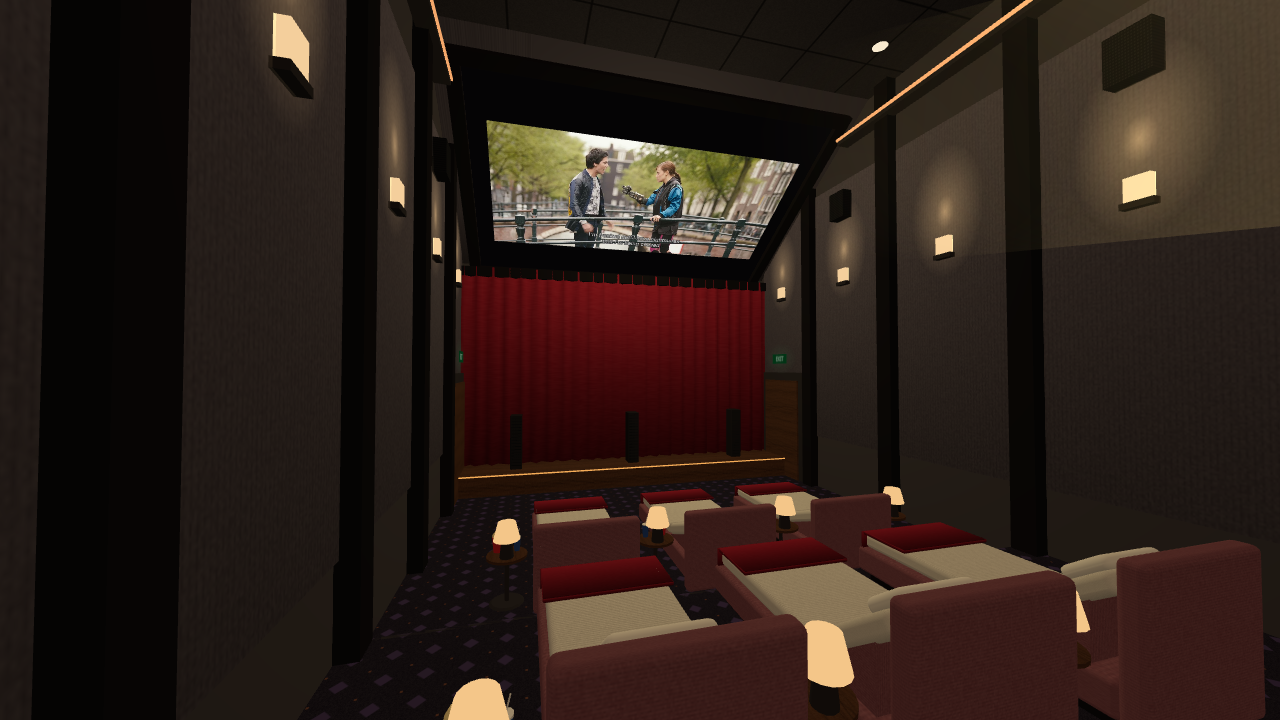
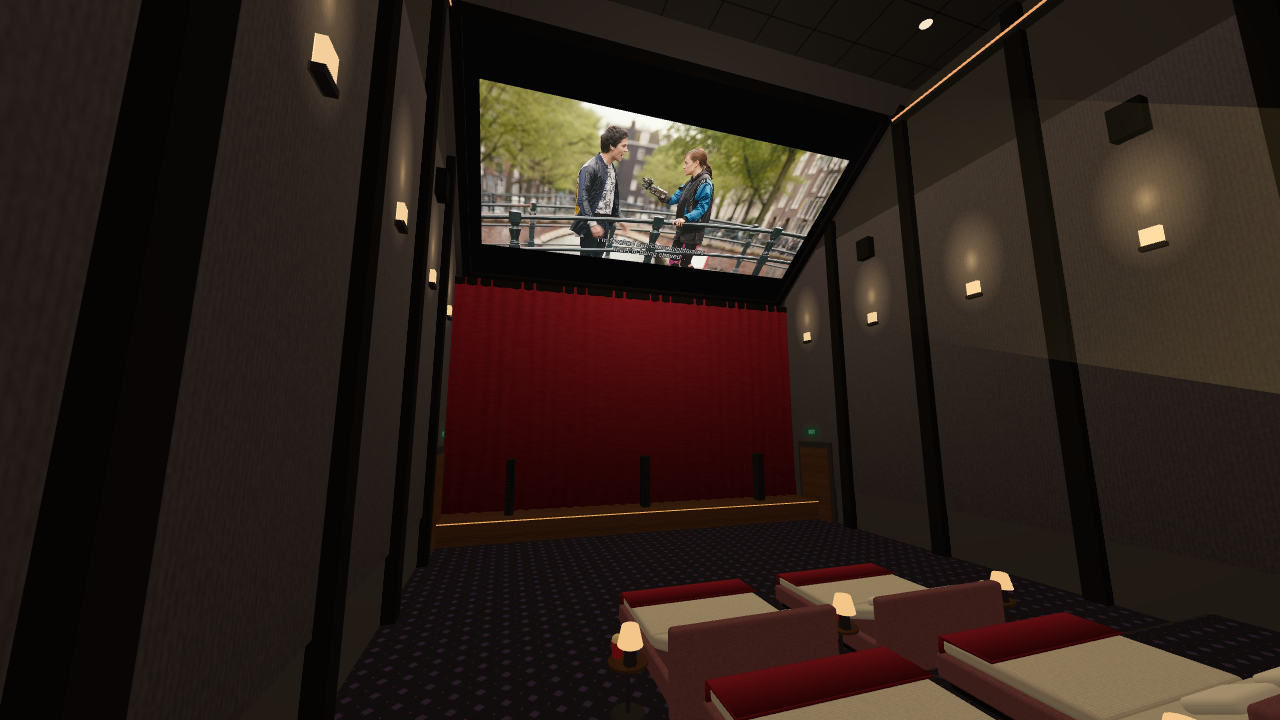
v0.5.1: bed cinema with straight double beds
The reclined recenter keeps the head level instead of following the
picture's up, which rolled the room for side places. The bed cinema now has
two straight double beds per row (8 places) under a bigger, farther screen;
places off the axis are recentered along their bed (their gaze), so the
body lines up with it and the head turns on the pillow to watch.

diff --git a/src/environments/beds/beds.js b/src/environments/beds/beds.js
@@ -1,15 +1,18 @@
-// Bed cinema: a smaller sister of the movie theatre, made for watching lying
-// down (in bed). Six beds in two rows instead of seats; the screen hangs high
+// Bed cinema: a sister of the movie theatre, made for watching lying down (in
+// bed). Two rows of two double beds instead of seats; the screen hangs high
 // above the front of the room, leaned back towards the beds, in a sloping
 // soffit. The theatre's style: acoustic bays with sconces and surround
 // speakers, velvet curtains, a stage with the front speakers, exit doors, a
-// projection booth and its beam. Side tables between the beds, with a lamp,
+// projection booth and its beam. Side tables beside the beds, with a lamp,
 // popcorn and a drink.
 //
 // The room matches the body: the front row lies almost flat and looks high up
-// at the screen, the back row sits up more and looks lower. Every bed carries
-// its own head position (where the eyes go); the layout's is the front middle
-// bed's. Coordinates: the screen faces +z and down, the beds' feet point to -z.
+// at the screen, the back row sits up more and looks lower. The beds point
+// straight at the screen wall, so the screen is big, high and far away: then
+// even the outer places see it only a little off to the side (a closer screen
+// would be far off their axis). Every place carries its own head position
+// (where the eyes go); the layout's is the front row's left inner place.
+// Coordinates: the screen faces +z and down, the beds' feet point to -z.
 
 import * as THREE from 'three';
 import { StaticBuilder } from '../kit/builder.js';
@@ -22,37 +25,42 @@ import * as textures from '../kit/textures.js';
 
 const deg = THREE.MathUtils.degToRad;
 
-const ROOM = { halfWidth: 4, front: -5.6, back: 5.6, height: 8 };
-const STAGE = { top: 0.45, depth: 1.3 };
-// A bed: the mattress top is this high above its floor; its head end is a
-// backrest raised by the row's recline, hinged this far from the headboard.
-const BED = { width: 1.1, length: 2.25, top: 0.51, hinge: 0.85 };
-const BED_XS = [-1.8, 0, 1.8];
-// `z`: the headboard, `floor`: the back row is on a low platform.
+const ROOM = { halfWidth: 6.2, front: -9.3, back: 5.6, height: 12.5 };
+const STAGE = { top: 0.6, depth: 1.6 };
+// A double bed: the mattress top is this high above its floor; its head end
+// is a backrest raised by the row's recline, hinged this far from the
+// headboard. Two places on it, this far either side of its middle.
+const BED = { width: 2.1, length: 2.25, top: 0.51, hinge: 0.85 };
+const PLACES = [-0.52, 0.52];
+// Two double beds a row, either side of a table; `z`: the headboards,
+// `floor`: the back row is on a low platform.
+const BED_XS = [-1.45, 1.45];
 const ROWS = [
 	{ z: 0.35, floor: 0, recline: deg(20) },
-	{ z: 3.45, floor: 0.3, recline: deg(38) },
+	{ z: 3.45, floor: 0.3, recline: deg(30) },
 ];
 const PLATFORM_FRONT = 0.95;
-// Side tables between and beside the beds, at their heads.
-const TABLE_XS = [-2.7, -0.9, 0.9, 2.7];
+// Side tables at the heads: between the beds, and outside them.
+const TABLE_XS = [-2.95, 0, 2.95];
 
+// Bed-local points: the origin is the foot of the headboard, the feet
+// towards -z.
 /** Along a raised backrest (from the hinge up), and out of it. */
 const along = (recline) => new THREE.Vector3(0, Math.sin(recline), Math.cos(recline));
 const outOf = (recline) => new THREE.Vector3(0, Math.cos(recline), -Math.sin(recline));
-const hingeOf = (x, row) => new THREE.Vector3(x, row.floor + BED.top, row.z - BED.hinge);
+const HINGE = new THREE.Vector3(0, BED.top, -BED.hinge);
 /** The eyes of someone lying on a bed, head on the pillow. */
-const headOf = (x, row) => hingeOf(x, row).addScaledVector(along(row.recline), 0.62).addScaledVector(outOf(row.recline), 0.24);
-/** Rig floor position for a bed: under its middle (where the pointer aims). */
-const seatOf = (x, row) => new THREE.Vector3(x, row.floor, row.z - 0.08 - BED.length / 2);
+const localHead = (row) => HINGE.clone().addScaledVector(along(row.recline), 0.62).addScaledVector(outOf(row.recline), 0.24);
+/** Rig floor position for a place: under its middle (where the pointer aims). */
+const MIDDLE = new THREE.Vector3(0, 0, -0.08 - BED.length / 2);
 
-// The screen, seen from the front middle bed this high above the horizon and
-// this far away, leaned back to face it.
-const HEAD = headOf(0, ROWS[0]);
+// The screen, seen from the front row's middle this high above the horizon
+// and this far away, leaned back to face it.
 const SCREEN_ELEVATION = deg(55);
-const SCREEN_DISTANCE = 6.6;
-const SCREEN_SIZE = { maxWidth: 6.4, maxHeight: 3.6 };
-const SCREEN_CENTER = HEAD.clone().addScaledVector(new THREE.Vector3(0, Math.sin(SCREEN_ELEVATION), -Math.cos(SCREEN_ELEVATION)), SCREEN_DISTANCE);
+const SCREEN_DISTANCE = 11;
+const SCREEN_SIZE = { maxWidth: 10.7, maxHeight: 6 };
+const AXIS_HEAD = localHead(ROWS[0]).add(new THREE.Vector3(0, ROWS[0].floor, ROWS[0].z));
+const SCREEN_CENTER = AXIS_HEAD.clone().addScaledVector(new THREE.Vector3(0, Math.sin(SCREEN_ELEVATION), -Math.cos(SCREEN_ELEVATION)), SCREEN_DISTANCE);
 // The screen's plane: its up (leaning back over the beds) and its front.
 const SCREEN_UP = new THREE.Vector3(0, Math.cos(SCREEN_ELEVATION), Math.sin(SCREEN_ELEVATION));
 const SCREEN_NORMAL = new THREE.Vector3(0, -Math.sin(SCREEN_ELEVATION), Math.cos(SCREEN_ELEVATION));
@@ -65,14 +73,30 @@ const SOFFIT_FRONT_Y = onScreenPlane(SOFFIT_FROM).y;
 /** Depth (z) where the soffit is at height `y`. */
 const soffitZ = (y) => SCREEN_CENTER.z + ((y - SCREEN_CENTER.y) / SCREEN_UP.y) * SCREEN_UP.z;
 
+/**
+ * The places, two on each bed: where the eyes go, the rig's floor position,
+ * and the gaze, head straight on the pillow: along the bed, at the screen's
+ * height (the view is recentered on it; off the axis, you turn your head on
+ * the pillow towards the screen, by 8° to 17°).
+ */
+const SPOTS = ROWS.flatMap((row) => BED_XS.flatMap((bedX) => PLACES.map((dx) => {
+	const offset = new THREE.Vector3(bedX + dx, row.floor, row.z);
+	const head = localHead(row).add(offset);
+	const elevation = Math.atan2(SCREEN_CENTER.y - head.y, head.z - SCREEN_CENTER.z);
+	return { head, seat: MIDDLE.clone().add(offset), gaze: new THREE.Vector3(0, Math.sin(elevation), -Math.cos(elevation)) };
+})));
+// The front row's left inner place.
+const DEFAULT_SPOT = SPOTS[1];
+
 export const bedsLayout = {
 	screen: {
 		position: { x: SCREEN_CENTER.x, y: SCREEN_CENTER.y, z: SCREEN_CENTER.z },
 		...SCREEN_SIZE,
 		tilt: THREE.MathUtils.radToDeg(SCREEN_ELEVATION),
 	},
-	seat: (({ x, y, z }) => ({ x, y, z }))(seatOf(0, ROWS[0])),
-	head: { x: HEAD.x, y: HEAD.y, z: HEAD.z },
+	seat: (({ x, y, z }) => ({ x, y, z }))(DEFAULT_SPOT.seat),
+	head: (({ x, y, z }) => ({ x, y, z }))(DEFAULT_SPOT.head),
+	gaze: (({ x, y, z }) => ({ x, y, z }))(DEFAULT_SPOT.gaze),
 	screenLight: true,
 };
 
@@ -124,20 +148,18 @@ defineEnvironment('beds', {
 		buildBackWall(b, m);
 		const seats = new SeatSpots();
 		for (const row of ROWS) {
-			for (const x of BED_XS) {
-				bed(b, m, x, row);
-				seats.add(Object.assign(seatOf(x, row), { head: headOf(x, row) }));
-			}
-			for (const [i, x] of TABLE_XS.entries()) sideTable(b, m, [x, row.floor, row.z - 0.3], i);
+			for (const x of BED_XS) bed(new Placer(b, [x, row.floor, row.z]), m, row);
+			for (const [i, x] of TABLE_XS.entries()) sideTable(b, m, [x, row.floor, row.z - 0.3], 0, i);
 		}
+		for (const { head, seat, gaze } of SPOTS) seats.add(Object.assign(seat.clone(), { head, gaze }));
 		env.seats = seats;
 		env.group.add(b.build());
 
 		const lighting = new EnvironmentLighting(env.group, {
 			sceneEl: env.sceneEl,
-			screenLightPosition: onScreenPlane(0, 0, 1.5),
-			screenLightDistance: 16,
-			screenLightScale: 0.6,
+			screenLightPosition: onScreenPlane(0, 0, 2),
+			screenLightDistance: 24,
+			screenLightScale: 0.8,
 		});
 		lighting.addFixture(m.sconce);
 		lighting.addFixture(m.cove);
@@ -175,8 +197,8 @@ function buildShell(b, m) {
 		const length = back - 0.3 - coveFrom;
 		b.add(box(0.06, 0.05, length), m.cove, { position: [side * (halfWidth - 0.3), coveY, coveFrom + length / 2] });
 		b.add(box(0.26, 0.1, length), m.trim, { position: [side * (halfWidth - 0.17), coveY - 0.05, coveFrom + length / 2] });
-		for (const z of [-0.4, 2.1, 4.6]) {
-			b.add(new THREE.CircleGeometry(0.12, 20), m.downlight, { position: [side * 3.1, height - 0.01, z], rotation: [Math.PI / 2, 0, 0] });
+		for (const z of [-1.2, 1.7, 4.6]) {
+			b.add(new THREE.CircleGeometry(0.14, 20), m.downlight, { position: [side * 4.6, height - 0.01, z], rotation: [Math.PI / 2, 0, 0] });
 		}
 	}
 
@@ -193,9 +215,9 @@ function buildFront(b, m) {
 	const { halfWidth, front } = ROOM;
 	b.add(tiledBox(halfWidth * 2, STAGE.top, STAGE.depth, 1.5), m.wood, { position: [0, STAGE.top / 2, front + STAGE.depth / 2] });
 	b.add(box(halfWidth * 2, 0.025, 0.025), m.stageLight, { position: [0, STAGE.top - 0.02, front + STAGE.depth + 0.01] });
-	for (const x of [-2.7, 0, 2.7]) speaker(b, m, [x, STAGE.top, front + 0.75], Math.PI, { height: 1.2 });
+	for (const x of [-4.2, 0, 4.2]) speaker(b, m, [x, STAGE.top, front + 0.85], Math.PI, { height: 1.6 });
 	const height = SOFFIT_FRONT_Y - STAGE.top;
-	b.add(foldedCurtain(halfWidth * 2, height, { folds: 24, depth: 0.12 }), m.velvet, { position: [0, STAGE.top + height / 2, front + 0.25] });
+	b.add(foldedCurtain(halfWidth * 2, height, { folds: 36, depth: 0.14 }), m.velvet, { position: [0, STAGE.top + height / 2, front + 0.25] });
 	b.add(box(halfWidth * 2, 0.22, 0.3), m.dark, { position: [0, SOFFIT_FRONT_Y - 0.11, front + 0.15] });
 }
 
@@ -226,12 +248,12 @@ function buildWalls(b, m) {
 		for (let i = 0; i < bays; i++) {
 			const z = front + i * bayWidth;
 			const center = z + bayWidth / 2;
-			b.add(box(0.05, 5.5, bayWidth - 0.36), m.acoustic, { position: [wallX + inward * 0.025, 3.9, center] });
-			if (i > 0) b.add(box(0.2, height, 0.3), m.dark, { position: [wallX + inward * 0.1, height / 2, z] });
-			b.add(box(0.09, 0.28, 0.22), m.sconce, { position: [wallX + inward * 0.1, 4.65, center] });
-			b.add(box(0.12, 0.07, 0.28), m.trim, { position: [wallX + inward * 0.1, 4.48, center] });
-			b.add(new THREE.PlaneGeometry(1.2, 2.1), m.sconceGlow, { position: [wallX + inward * 0.07, 5.2, center], rotation: [0, inward * Math.PI / 2, 0] });
-			if (i % 2 === 1) b.add(box(0.24, 0.55, 0.4), m.grille, { position: [wallX + inward * 0.14, 6.1, center] });
+			b.add(box(0.06, 8.4, bayWidth - 0.4), m.acoustic, { position: [wallX + inward * 0.03, 5.3, center] });
+			if (i > 0) b.add(box(0.22, height, 0.34), m.dark, { position: [wallX + inward * 0.11, height / 2, z] });
+			b.add(box(0.1, 0.32, 0.26), m.sconce, { position: [wallX + inward * 0.12, 6.4, center] });
+			b.add(box(0.14, 0.08, 0.32), m.trim, { position: [wallX + inward * 0.12, 6.22, center] });
+			b.add(new THREE.PlaneGeometry(1.5, 2.6), m.sconceGlow, { position: [wallX + inward * 0.08, 7.1, center], rotation: [0, inward * Math.PI / 2, 0] });
+			if (i % 2 === 1) b.add(box(0.26, 0.62, 0.46), m.grille, { position: [wallX + inward * 0.16, 8.6, center] });
 		}
 
 		// Exit door near the front, with its lit sign.
@@ -267,40 +289,40 @@ function wedge(width, length, angle) {
 }
 
 /**
- * A cinema bed, its head at the headboard (`row.z`), feet towards the screen:
+ * A double cinema bed, placed by `p` at its headboard, feet towards -z:
  * upholstered base and headboard, a mattress whose head end is raised by the
- * row's recline, a pillow and a velvet throw folded at the foot.
+ * row's recline, two pillows and a velvet throw folded at the foot.
+ * @param {Placer} p
  */
-function bed(b, m, x, row) {
-	const { floor, recline } = row;
-	const foot = row.z - 0.08 - BED.length;
-	const middle = row.z - 0.08 - BED.length / 2;
-	const add = (geometry, material, [px, py, pz], rotation = [0, 0, 0]) => b.add(geometry, material, { position: [px, py, pz], rotation });
-	add(box(BED.width - 0.12, 0.1, BED.length - 0.16), m.dark, [x, floor + 0.05, middle]);
-	add(box(BED.width - 0.3, 0.02, 0.02), m.stepLight, [x, floor + 0.05, foot + 0.07]);
-	add(roundedBox(BED.width + 0.08, 0.26, BED.length, 0.04), m.upholstery, [x, floor + 0.23, middle]);
+function bed(p, m, row) {
+	const { recline } = row;
+	const foot = -0.08 - BED.length;
+	p.add(box(BED.width - 0.12, 0.1, BED.length - 0.16), m.dark, [0, 0.05, MIDDLE.z]);
+	p.add(box(BED.width - 0.3, 0.02, 0.02), m.stepLight, [0, 0.05, foot + 0.07]);
+	p.add(roundedBox(BED.width + 0.08, 0.26, BED.length, 0.04), m.upholstery, [0, 0.23, MIDDLE.z]);
 	// The headboard rises a little above the raised backrest.
 	const headboard = BED.top + BED.hinge * Math.sin(recline) + 0.15;
-	add(roundedBox(BED.width + 0.12, headboard, 0.16, 0.05), m.upholstery, [x, floor + headboard / 2, row.z]);
+	p.add(roundedBox(BED.width + 0.12, headboard, 0.16, 0.05), m.upholstery, [0, headboard / 2, 0]);
 
 	// Mattress: flat from the foot to the hinge, then the raised backrest on its wedge.
-	const hinge = hingeOf(x, row);
-	const flat = hinge.z - (foot + 0.04);
-	add(roundedBox(BED.width - 0.04, 0.15, flat, 0.05), m.linen, [x, floor + BED.top - 0.075, foot + 0.04 + flat / 2]);
-	add(wedge(BED.width - 0.08, BED.hinge - 0.1, recline), m.upholstery, [x, floor + 0.36, hinge.z]);
-	const rest = hinge.clone().addScaledVector(along(recline), BED.hinge / 2).addScaledVector(outOf(recline), -0.075);
-	add(roundedBox(BED.width - 0.04, 0.15, BED.hinge, 0.05), m.linen, rest.toArray(), [-recline, 0, 0]);
-	const pillow = hinge.clone().addScaledVector(along(recline), 0.6).addScaledVector(outOf(recline), 0.05);
-	add(roundedBox(0.62, 0.11, 0.36, 0.05), m.pillow, pillow.toArray(), [-recline, 0, 0]);
+	const flat = HINGE.z - (foot + 0.04);
+	p.add(roundedBox(BED.width - 0.04, 0.15, flat, 0.05), m.linen, [0, BED.top - 0.075, foot + 0.04 + flat / 2]);
+	p.add(wedge(BED.width - 0.08, BED.hinge - 0.1, recline), m.upholstery, [0, 0.36, HINGE.z]);
+	const rest = HINGE.clone().addScaledVector(along(recline), BED.hinge / 2).addScaledVector(outOf(recline), -0.075);
+	p.add(roundedBox(BED.width - 0.04, 0.15, BED.hinge, 0.05), m.linen, rest.toArray(), [-recline, 0, 0]);
+	for (const x of PLACES) {
+		const pillow = HINGE.clone().addScaledVector(along(recline), 0.6).addScaledVector(outOf(recline), 0.05).setX(x);
+		p.add(roundedBox(0.62, 0.11, 0.36, 0.05), m.pillow, pillow.toArray(), [-recline, 0, 0]);
+	}
 
 	// The throw, folded on the foot and hanging over its end.
-	add(roundedBox(BED.width + 0.02, 0.04, 0.55, 0.015), m.velvet, [x, floor + BED.top + 0.015, foot + 0.33]);
-	add(box(BED.width + 0.02, 0.2, 0.03), m.velvet, [x, floor + BED.top - 0.08, foot + 0.045]);
+	p.add(roundedBox(BED.width + 0.02, 0.04, 0.55, 0.015), m.velvet, [0, BED.top + 0.015, foot + 0.33]);
+	p.add(box(BED.width + 0.02, 0.2, 0.03), m.velvet, [0, BED.top - 0.08, foot + 0.045]);
 }
 
 /** Round side table with a lamp, a box of popcorn and a drink. */
-function sideTable(b, m, position, seed) {
-	const p = new Placer(b, position);
+function sideTable(b, m, position, rotationY, seed) {
+	const p = new Placer(b, position, rotationY);
 	const top = 0.55;
 	p.add(new THREE.CylinderGeometry(0.17, 0.2, 0.02, 16), m.metal, [0, 0.01, 0]);
 	p.add(new THREE.CylinderGeometry(0.025, 0.025, top - 0.03, 8), m.metal, [0, (top - 0.03) / 2, 0]);

diff --git a/src/player/view-controls.js b/src/player/view-controls.js
@@ -7,11 +7,15 @@
 // - Recenter: with the headset's own recenter (hold the Meta button), or from
 //   the settings. Upright, only the direction is corrected and the room stays
 //   level; reclined or lying down (head pointing well above the horizon), the
-//   view is also tilted so the screen is in front of your eyes, upright, and
+//   view is also tilted so the screen is in front of your eyes, head level, and
 //   the menus (the `view` entity) come in front of your eyes too.
 // - Environments where the viewer lies down (a hammock, beds) are always
 //   recentered that way in VR, and put the viewer's head at a fixed spot
-//   (`head`; with several beds, each seat carries its own `head`).
+//   (`head`; with several beds, each seat carries its own `head`). A bed off
+//   the screen's axis also has its own `gaze`: straight along the bed, at the
+//   screen's height. The view is recentered on it, not on the screen, so the
+//   body lines up with the bed; you turn your head on the pillow to watch, as
+//   in a real bed cinema (and then the picture looks upright).
 // - Left stick click: back to your seat.
 //
 // Everything moves the camera rig; emits `rig-moved` on the scene afterwards.
@@ -53,6 +57,9 @@ AFRAME.registerComponent('view-controls', {
 		// `head` (a world position) instead of seated height above the seat.
 		lying: { type: 'boolean', default: false },
 		head: { type: 'vec3', default: { x: 0, y: 1, z: 0 } },
+		// Lying down: where the eyes look when the head rests straight on the
+		// pillow (default, all zero: at the screen).
+		gaze: { type: 'vec3', default: { x: 0, y: 0, z: 0 } },
 		// Entity whose environment component lists the seats (seatPositions()).
 		environment: { type: 'selector', default: '#environment' },
 	},
@@ -266,7 +273,8 @@ AFRAME.registerComponent('view-controls', {
 			this.rotateAroundHead(levelled.multiply(rig.quaternion.clone().invert()));
 		}
 		const head = this.headPosition();
-		const toScreen = new THREE.Vector3().copy(this.data.target).sub(head).normalize();
+		const gaze = new THREE.Vector3().copy(this.seat?.gaze ?? this.data.gaze);
+		const toScreen = this.data.lying && gaze.lengthSq() > 0 ? gaze.normalize() : new THREE.Vector3().copy(this.data.target).sub(head).normalize();
 		const forward = this.headForward();
 		// (On the flat page, the room stays level: the view is aimed instead.)
 		const immersive = this.el.sceneEl.is('vr-mode') || this.el.sceneEl.is('ar-mode');
@@ -281,26 +289,19 @@ AFRAME.registerComponent('view-controls', {
 			this.rotateAroundHead(new THREE.Quaternion().setFromUnitVectors(forward, toScreen));
 			return;
 		}
-		// Gaze onto the screen, and the top of the head towards the top of the
-		// picture (else it could look rotated, depending on how the user lies).
+		// Gaze onto the screen, and the top of the head level, towards the sky
+		// (else the view could look rolled, depending on how the user lies). Not
+		// towards the top of the picture: seen from the side, a tilted screen's up
+		// leans, and following it would roll the whole room.
 		const camera = this.data.camera.object3D;
 		const headUp = new THREE.Vector3(0, 1, 0).transformDirection(camera.matrixWorld);
-		const screenUp = this.screenUp();
 		const from = frame(forward, headUp);
-		const to = frame(toScreen, screenUp.sub(toScreen.clone().multiplyScalar(screenUp.dot(toScreen))));
+		const to = frame(toScreen, UP);
 		if (!from || !to) {
 			this.rotateAroundHead(new THREE.Quaternion().setFromUnitVectors(forward, toScreen));
 			return;
 		}
 		this.rotateAroundHead(new THREE.Quaternion().setFromRotationMatrix(to.multiply(from.transpose())));
-	},
-
-	/** World "up" of the picture (the screen can be tilted). */
-	screenUp() {
-		const screen = document.getElementById('screen')?.object3D;
-		if (!screen) return UP.clone();
-		screen.updateMatrixWorld();
-		return new THREE.Vector3(0, 1, 0).transformDirection(screen.matrixWorld);
 	},
 
 	/**
@@ -328,9 +329,11 @@ AFRAME.registerComponent('view-controls', {
 
 	/**
 	 * Back on the seat (default: the environment's), level, facing the screen.
-	 * @param {{ x: number, y: number, z: number, head?: THREE.Vector3 }} [seat]
+	 * @param {{ x: number, y: number, z: number, head?: THREE.Vector3, gaze?: THREE.Vector3 }} [seat]
 	 */
 	backToSeat(seat = this.data.seat) {
+		// (Recentering later uses this seat's gaze.)
+		this.seat = seat;
 		const rig = this.data.rig.object3D;
 		rig.quaternion.identity();
 		if (this.data.lying) {

diff --git a/src/environments/index.js b/src/environments/index.js
@@ -17,6 +17,8 @@ import { voidLayout } from './void/void.js';
  * tilt: degrees the screen leans back (above a lying viewer)
  * @property {{ x: number, y: number, z: number }} seat Rig (floor) position of the viewer.
  * @property {{ x: number, y: number, z: number }} [head] The viewer lies down, eyes here.
+ * @property {{ x: number, y: number, z: number }} [gaze] Lying off the screen's axis: where
+ * the eyes look, head straight on the pillow (default: at the screen).
  * @property {boolean} [screenLight] Lit by the picture.
  * @property {boolean} [ar] Needs an immersive-ar session (passthrough).
  * @property {number} [menuDistance] Library distance when not on the screen (default 2 m).
@@ -50,7 +52,7 @@ export const environments = {
 	},
 	beds: {
 		name: 'Bed cinema',
-		description: 'A smaller theatre with beds, the screen leaning over you.',
+		description: 'Double beds, and a giant screen leaning over you from above.',
 		tags: ['indoor', 'lying', 'seats'],
 		component: 'beds-environment',
 		// Picker card: public/environments/beds.jpg (npm run screenshots).

diff --git a/src/main.js b/src/main.js
@@ -133,7 +133,7 @@ function setupEnvironment(key) {
 	if (layout.head) rigEl.object3D.position.set(layout.head.x, layout.head.y, layout.head.z).sub(cameraEl.object3D.position);
 	lookAtScreenFlat(layout);
 	updateColorSampling();
-	sceneEl.setAttribute('view-controls', { target: position, seat: layout.seat, lying: Boolean(layout.head), head: layout.head ?? { x: 0, y: 1, z: 0 } });
+	sceneEl.setAttribute('view-controls', { target: position, seat: layout.seat, lying: Boolean(layout.head), head: layout.head ?? { x: 0, y: 1, z: 0 }, gaze: layout.gaze ?? { x: 0, y: 0, z: 0 } });
 	setScreenMovable(Boolean(layout.ar));
 	environment()?.setHouseLights(!player.isActive);
 	placeLibrary();

diff --git a/README.md b/README.md
@@ -18,7 +18,7 @@ sideload and nothing to add to your server.
 | | |
 |---|---|
 | ![Movie theatre](docs/screenshots/environment-theater.png) | ![Bed cinema](docs/screenshots/environment-beds.png) |
-| **Movie theatre**: rows of red seats, curtains, a projection booth and a giant screen. | **Bed cinema**: made for watching in bed. A smaller theatre with six beds, popcorn on the side tables, and the screen leaning out high above you, facing your pillow. |
+| **Movie theatre**: rows of red seats, curtains, a projection booth and a giant screen. | **Bed cinema**: made for watching in bed. Double beds for two, popcorn on the side tables, and a giant screen leaning out high above you, facing the pillows. |
 | ![Home cinema](docs/screenshots/environment-home.png) | ![Space station](docs/screenshots/environment-station.png) |
 | **Home cinema**: recliners, a sofa, bookshelves and a starry ceiling. | **Space station**: float in a Cupola like the ISS's, windows all around onto the planet, the moon and the stars. |
 | ![Lakeside cabin](docs/screenshots/environment-cabin.png) | ![Jungle hammock](docs/screenshots/environment-jungle.png) |

diff --git a/CLAUDE.md b/CLAUDE.md
@@ -104,7 +104,12 @@ ships.
   (where the eyes go) and `screen.tilt` in their layout: the screen leans back
   above the viewer, so the room stays level and matches the body (never
   rotate the room to the eyes instead: it makes users sick). With several
-  beds, each seat spot carries its own `head`. Keep the line of sight from
+  places, each seat spot carries its own `head`, and off the screen's axis a
+  `gaze` (straight along the bed, at the screen's height): the view is
+  recentered on it, so the body lines up with the (straight) bed, and the
+  user turns their head on the pillow to watch, as in a real bed cinema. Keep
+  every place within ~20° of the screen (seen from above): a far, big, high
+  screen. Keep the line of sight from
   `head` to the screen clear (the jungle's `blocksScreen` / `plantHidesScreen`).
 - Icons are geometry (src/ui/icons.js), not font glyphs: the bundled Inter
   subset lacks most symbols. Icon buttons should set a `tooltip`.

diff --git a/docs/TECHNICAL.md b/docs/TECHNICAL.md
@@ -223,3 +223,12 @@ Next features are in the [README roadmap](../README.md#roadmap).
   you sick). Lying seats: each bed's seat spot carries its own `head`, so
   teleporting lands with the eyes on that pillow. `projectorBeam` moved to
   the kit (shared with the theatre).
+- **v0.5.1**: the bed cinema's side places felt off: the reclined recenter
+  turned the top of the head towards the top of the picture, which, seen
+  from the side, rolled the whole room (up to 21°). The recenter now keeps
+  the head level. The room was rebuilt around two straight double beds per
+  row (8 places) and a bigger, farther screen (10.7 m wide, 11 m away, still
+  55° up from the front row), so every place is within 17° of it. Places off
+  the axis carry a `gaze` (along the bed, at the screen's height): the view
+  is recentered on it, so the body lines up with the bed and you turn your
+  head on the pillow to watch, which keeps the picture upright (within 3°).
